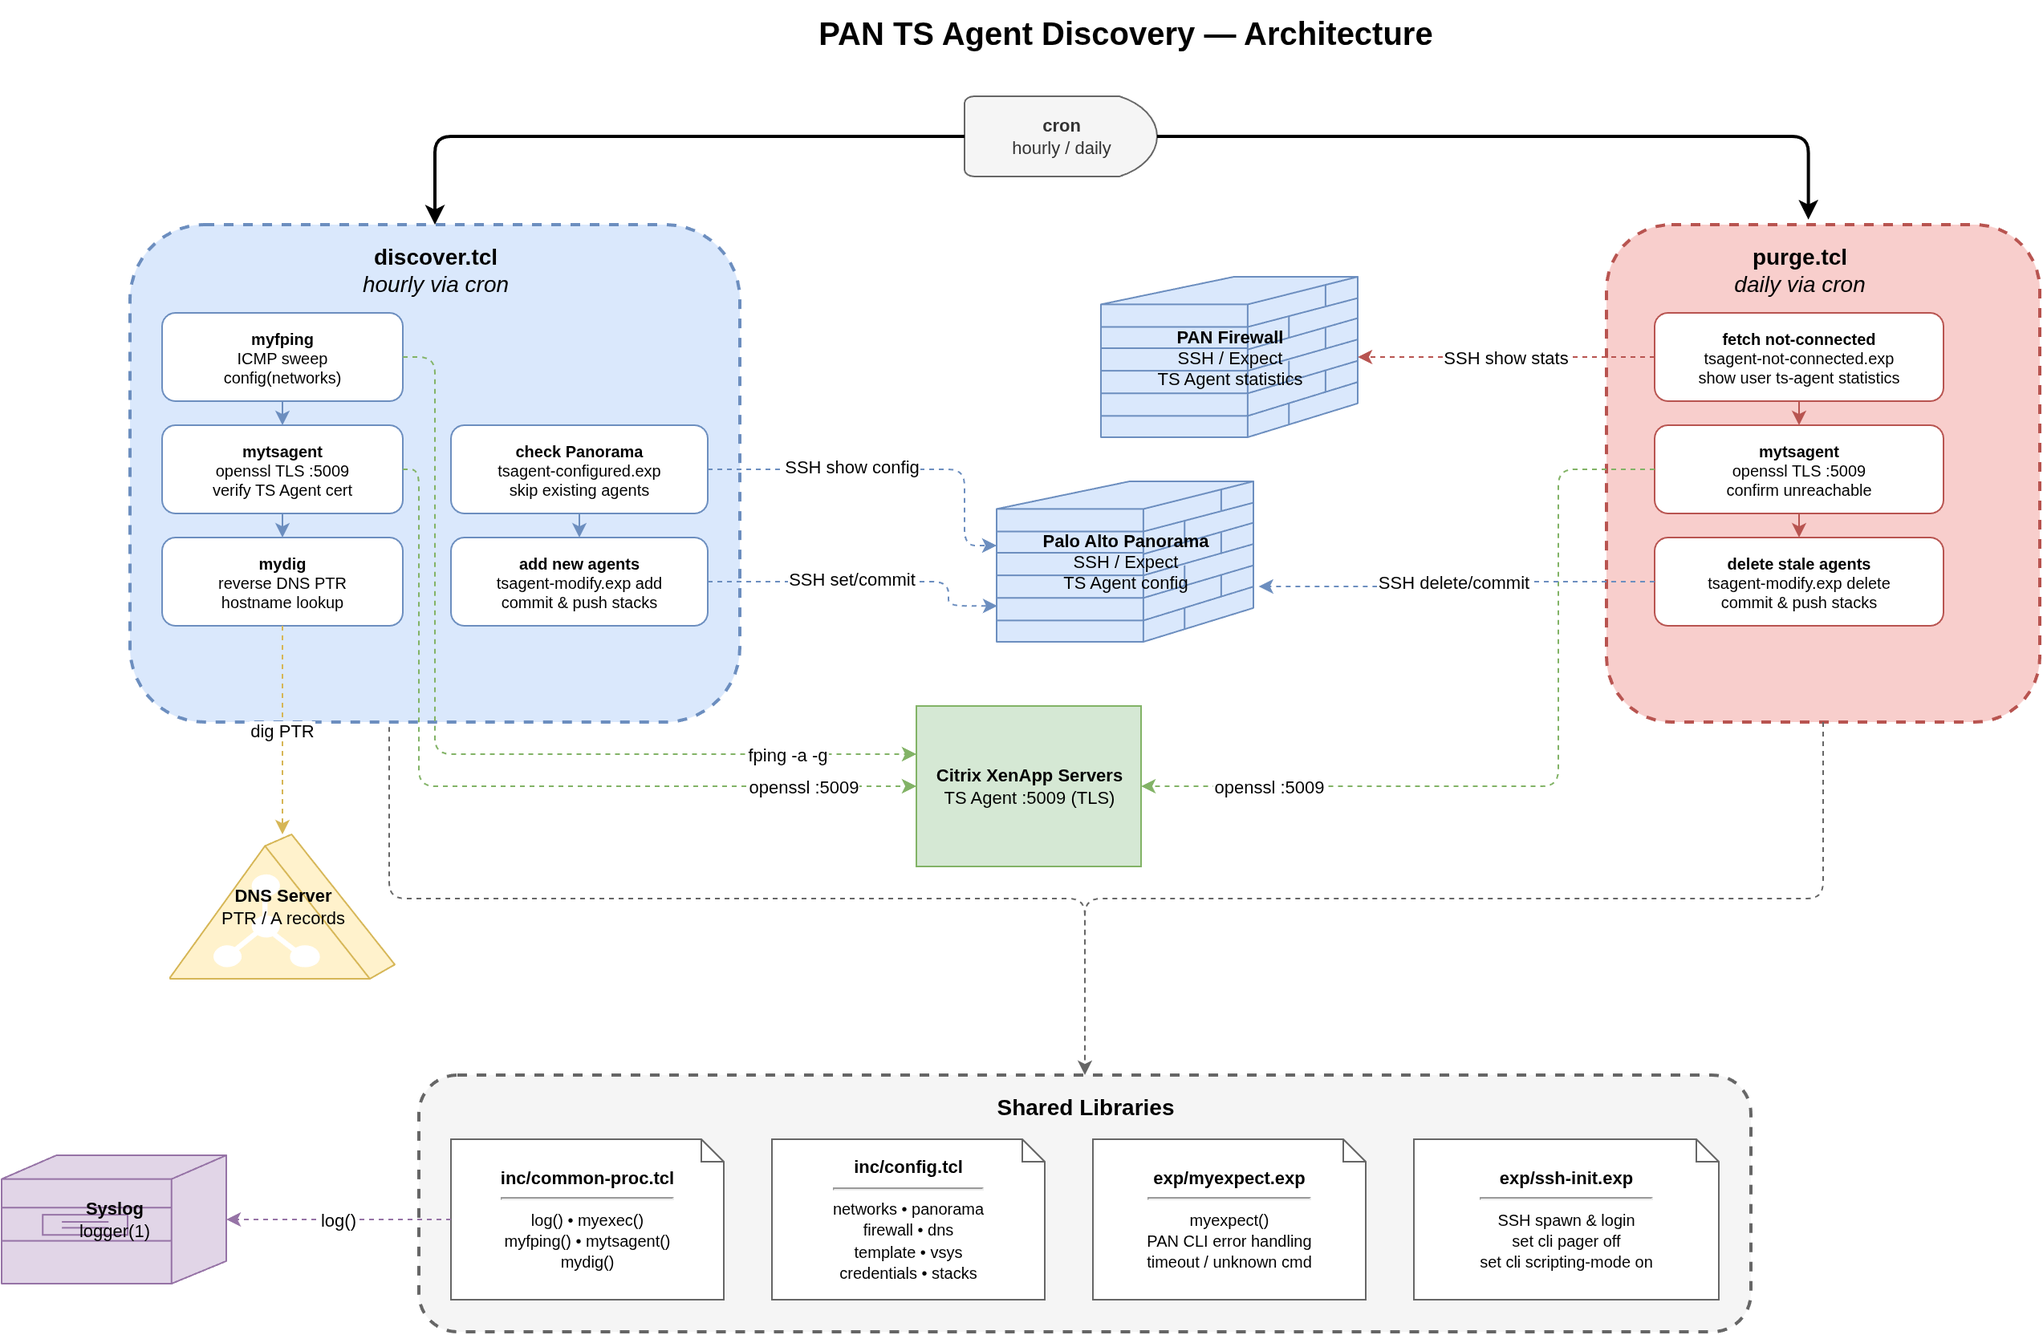
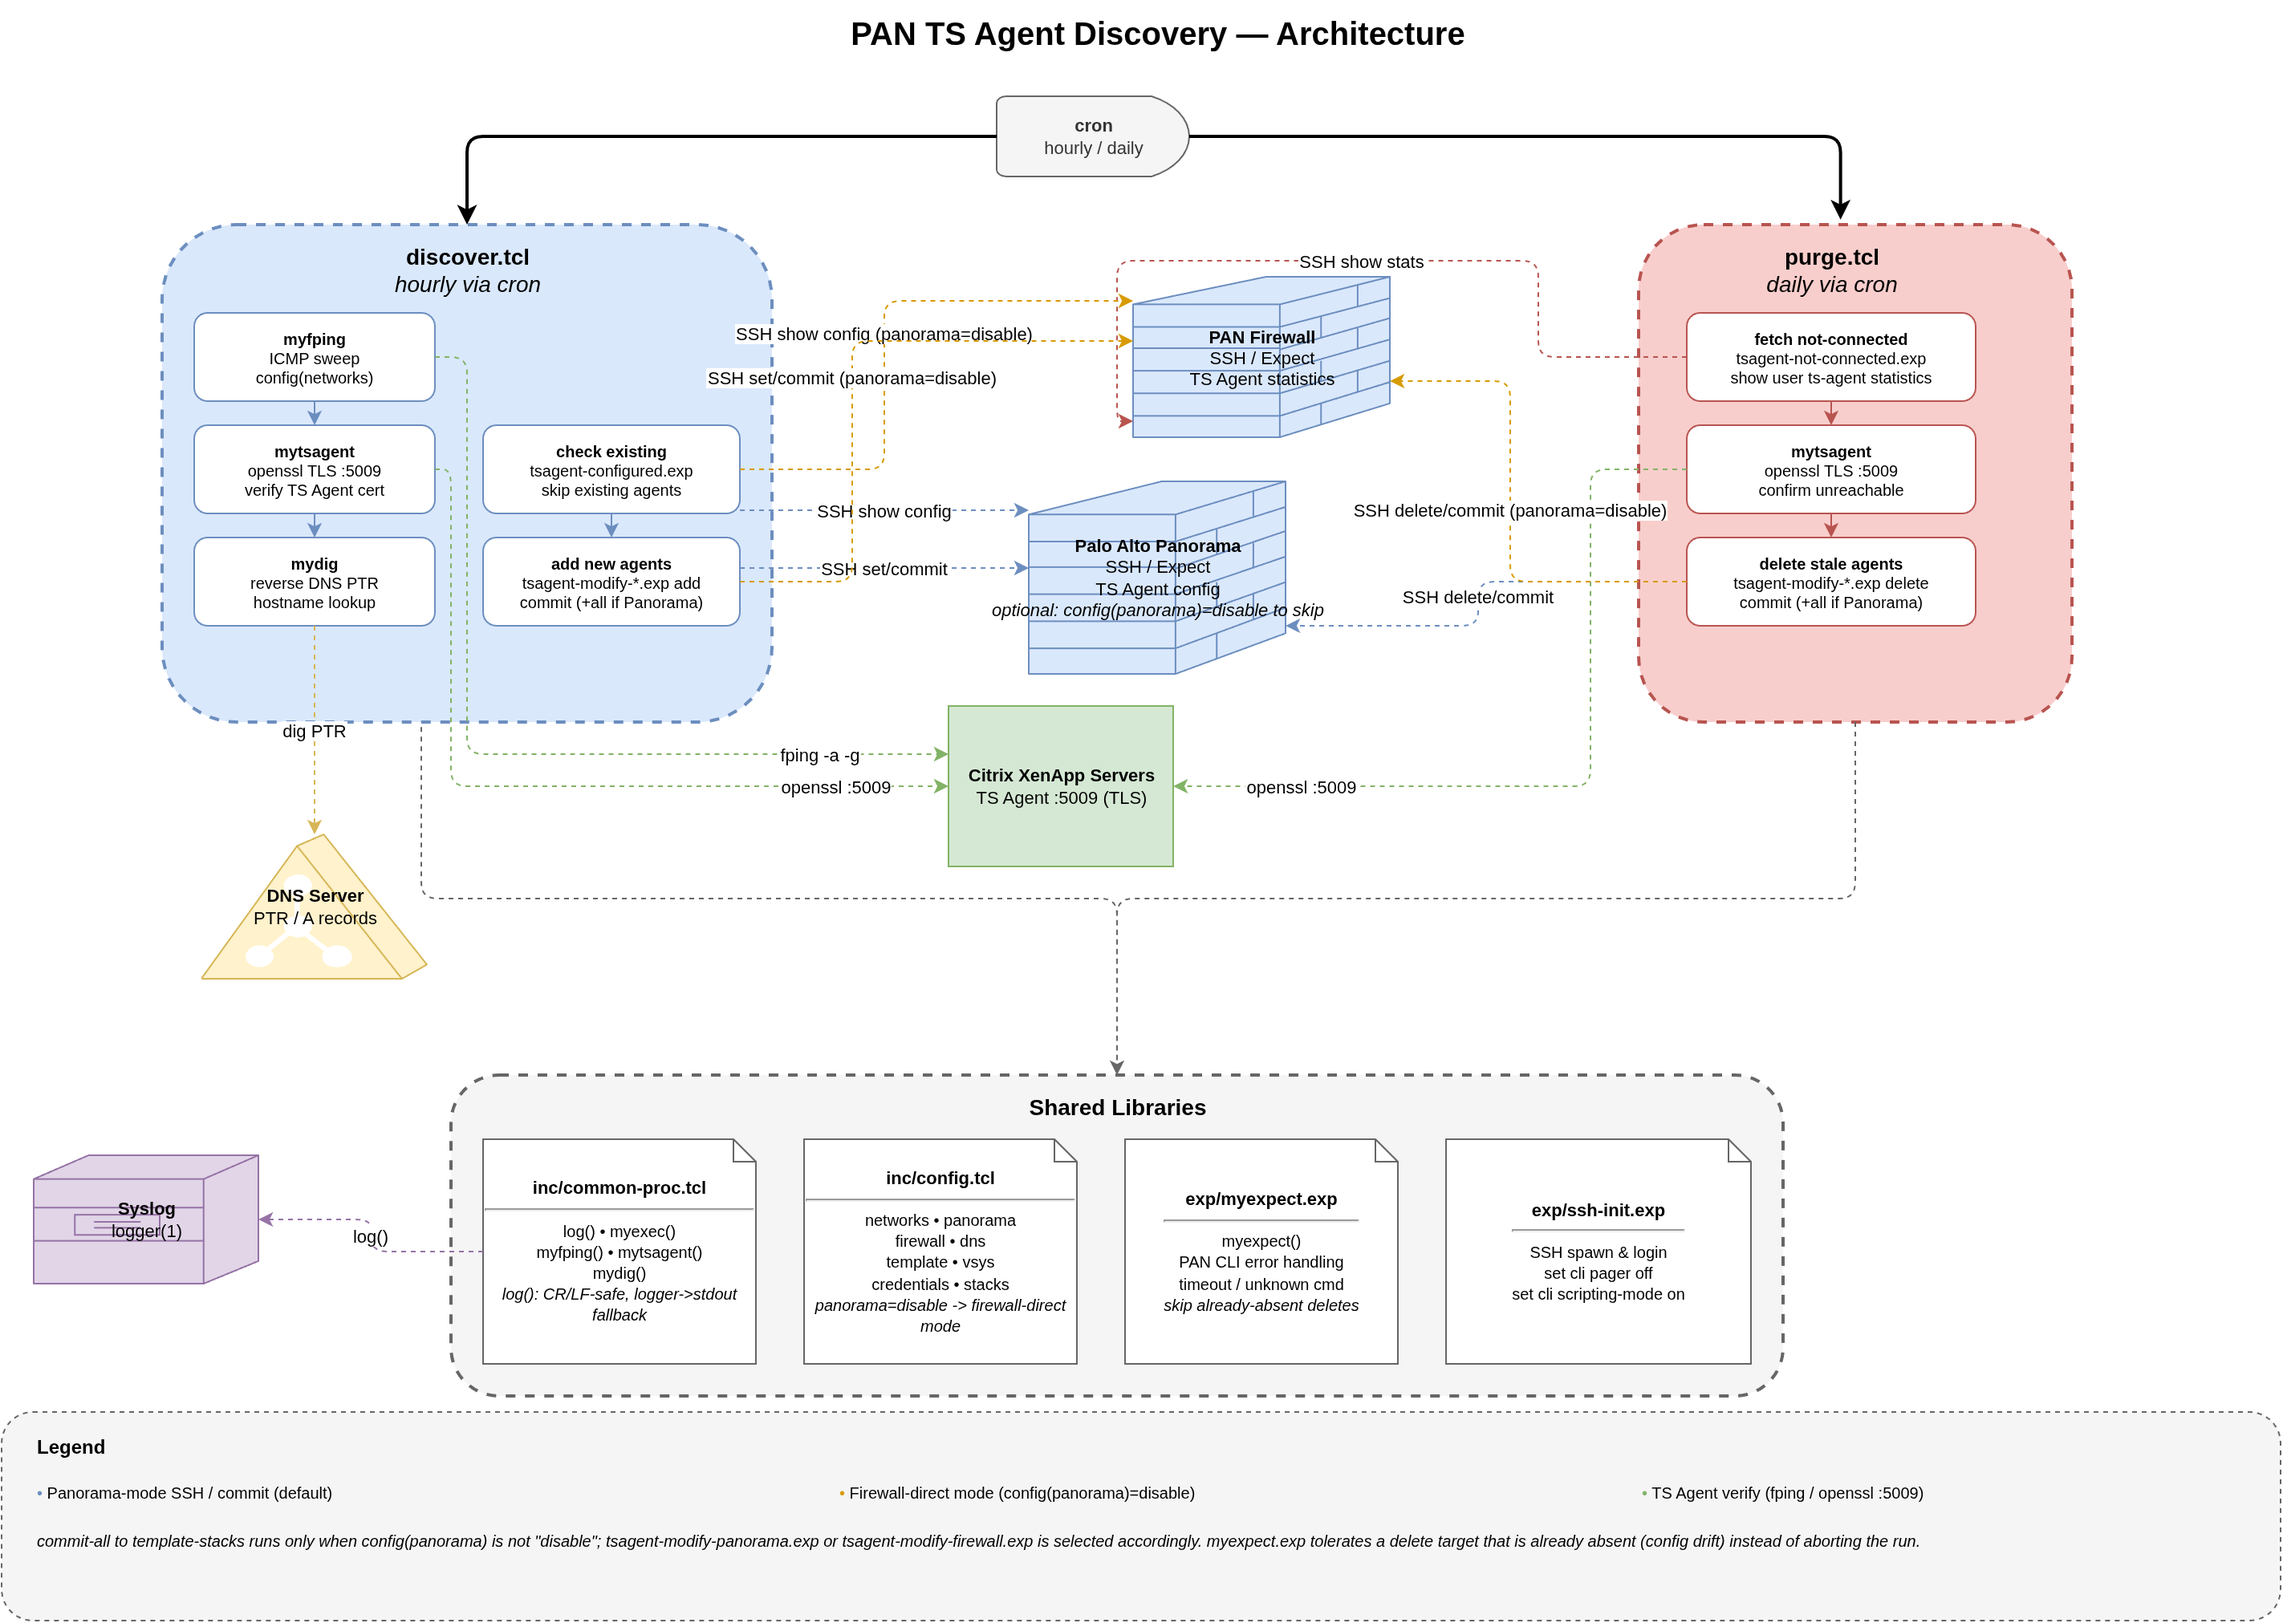
docs: reconcile architecture.drawio/function-flow.drawio content with current code
Brings architecture.drawio and function-flow.drawio content in line
with the Panorama-optional/firewall-direct code path already reflected
in the other four diagrams (ssh-session-lifecycle, myexpect-error-tree,
ts-agent-lifecycle, log-alert-pipeline), which had drifted out of sync
since the "doco" layout commit was based on the pre-split code.

All existing box positions are preserved exactly (this repositioning
was deliberate, manual work) -- only label text changed on existing
nodes, plus new nodes/edges added in previously-empty space:

architecture.drawio:
- check/add/delete step labels updated for the split
  tsagent-modify-panorama.exp / tsagent-modify-firewall.exp scripts
- new firewall-direct-mode edges (config(panorama)=disable) alongside
  the existing Panorama edges, each given its own lane/entry point to
  avoid label collisions on the now-adjacent Firewall/Panorama boxes
- shared-library notes updated (log() CR/LF safety, myexpect.exp's
  graceful already-absent-delete handling, config.tcl's panorama=disable
  switch)
- new legend explaining the mode color-coding

function-flow.drawio:
- new PTR-charset-validation decision (d10b/d10bskip) between the
  hostname-empty check and the "already configured" check
- new not-conn-line parse-error decision (p4b/p4bskip) reflecting
  purge.tcl's try/catch around malformed firewall output
- add/delete steps' labels updated for the mode-aware modify scripts
  and commit/commit-all gating
[…]

diff --git a/docs/README.md b/docs/README.md
@@ -12,7 +12,7 @@ One page per file (split out for easier standalone viewing/diffing). Click a dia
 
 ### [architecture.drawio](architecture.drawio)
 
-System topology -- Citrix/DNS/Panorama/Firewall/syslog, discover.tcl and purge.tcl at a glance.
+System topology -- Citrix/DNS/Panorama/Firewall/syslog, discover.tcl and purge.tcl at a glance, Panorama-vs-firewall-direct mode.
 
 [![Architecture diagram](architecture.png)](architecture.drawio)
 
